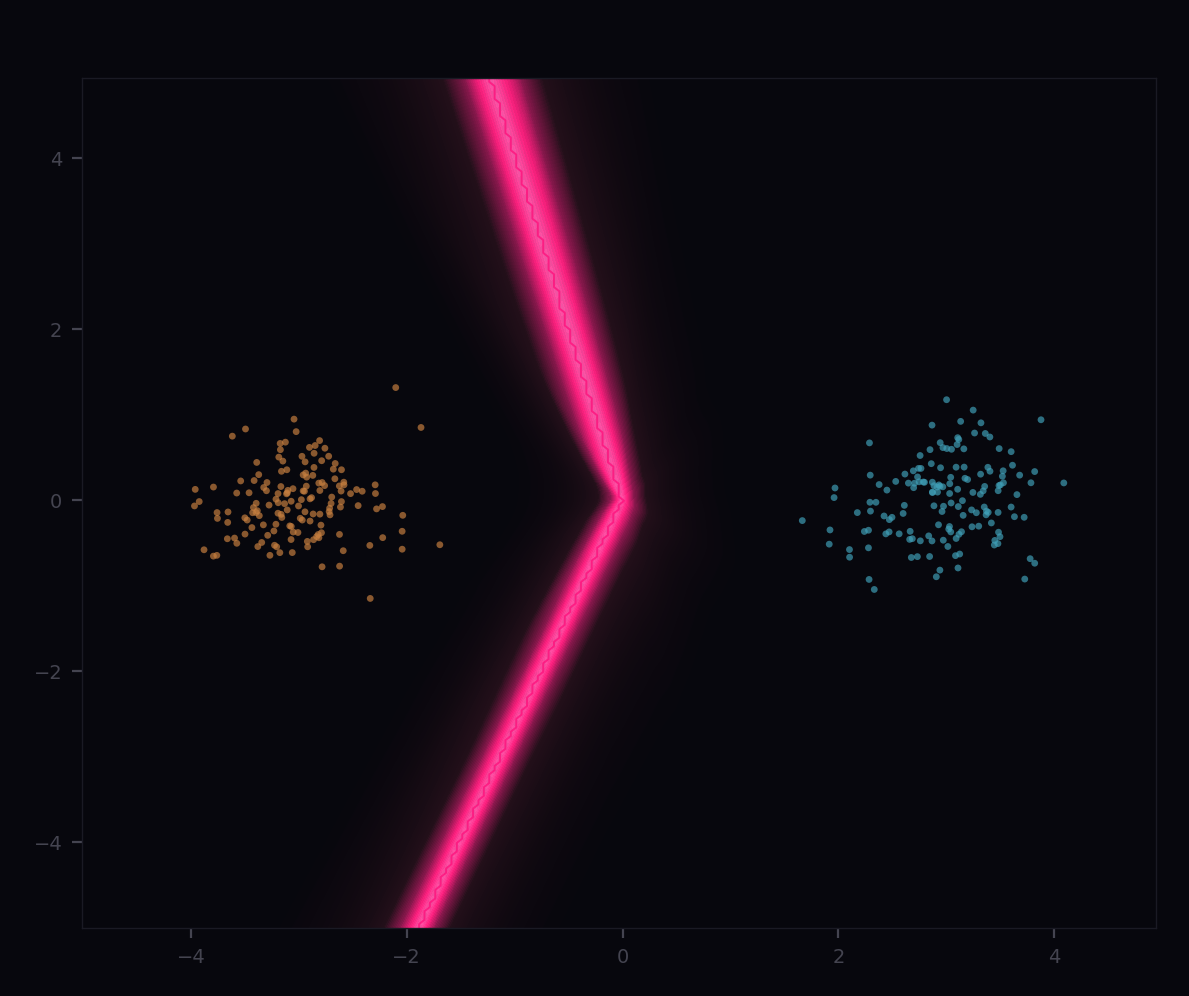
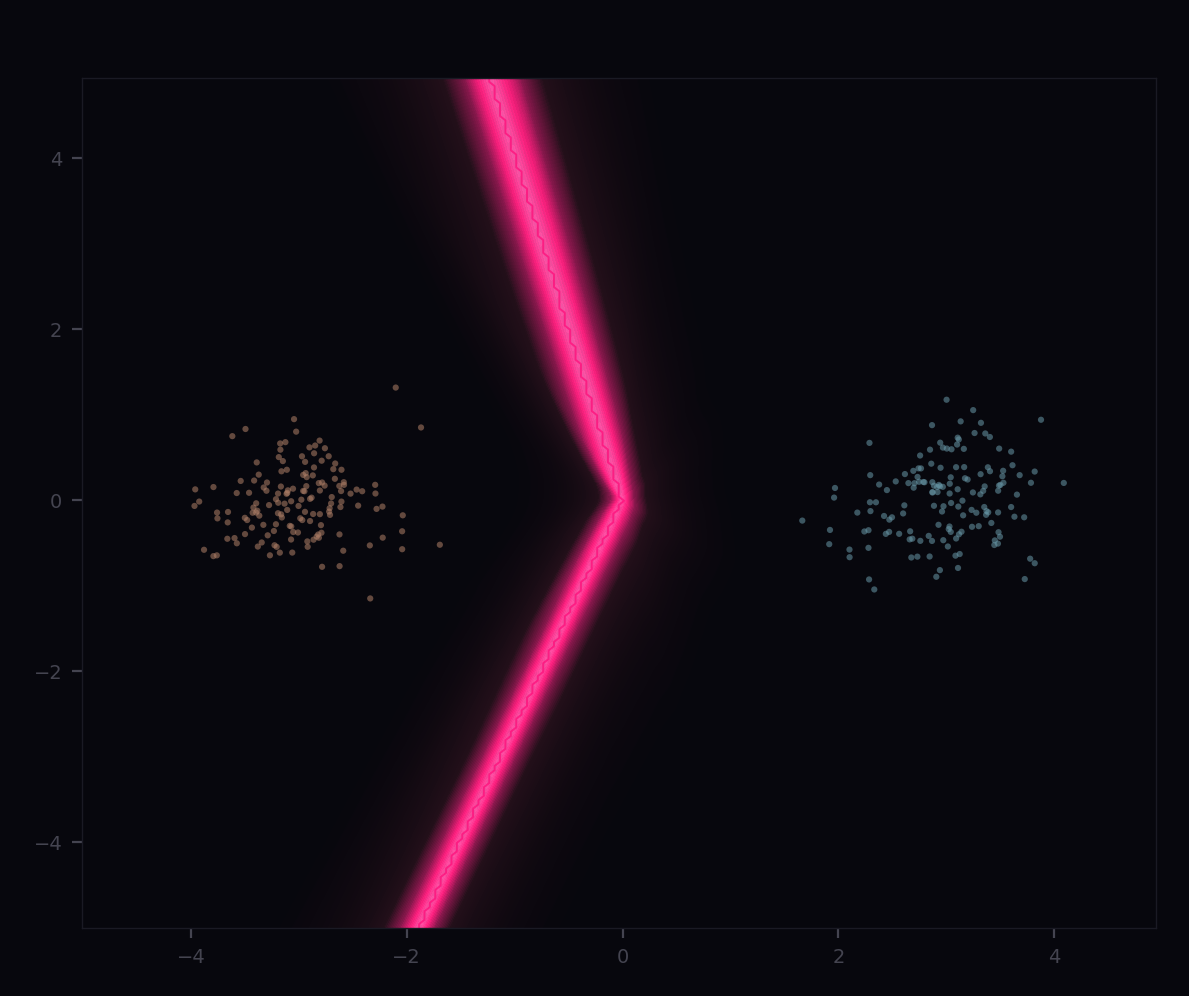
muted dots, smaller gallery, tighter wording, remove PINK_HOT

Changed region(s): [[0.6846, 0.4046, 0.8713, 0.5914], [0.1556, 0.4357, 0.3423, 0.5602]]

diff --git a/neural_geometry/bayesian.py b/neural_geometry/bayesian.py
@@ -172,10 +172,9 @@ FG         = "#c0c0d0"
 
 PINK_GLOW  = "#ff4fa3"
 PINK_NEON  = "#ff0f7b"
-PINK_HOT   = "#ff7cc4"
 
-CLASS0     = "#c88040"
-CLASS1     = "#40a0b8"
+CLASS0     = "#b08068"
+CLASS1     = "#6898a8"
 
 _CONF_CMAP = LinearSegmentedColormap.from_list("conf", [
     (0.00, "#ff5eb0"),
@@ -221,7 +220,7 @@ def plot_confidence_maps(fields, X, y):
         cf = ax.contourf(xx, yy, conf, levels=50, cmap=_CONF_CMAP,
                          vmin=0.5, vmax=1.0, alpha=0.95)
         _neon_boundary(ax, xx, yy, pred)
-        _scatter_data(ax, X, y, s=6, alpha=0.68)
+        _scatter_data(ax, X, y, s=5, alpha=0.55)
         cb = plt.colorbar(cf, ax=ax, fraction=0.032, pad=0.03)
         cb.ax.tick_params(colors="#333340", labelsize=6)
         cb.outline.set_edgecolor("#101018")
@@ -292,7 +291,7 @@ def plot_prior_sweep(model, X, y, prior_stds=(0.3, 1.0, 3.0, 10.0)):
         cf = ax.contourf(xx, yy, conf, levels=40, cmap=_CONF_CMAP,
                          vmin=0.5, vmax=1.0, alpha=0.95)
         _neon_boundary(ax, xx, yy, pred)
-        _scatter_data(ax, X, y, s=8)
+        _scatter_data(ax, X, y, s=5, alpha=0.55)
         plt.colorbar(cf, ax=ax, fraction=0.032, pad=0.03).ax.tick_params(
             colors="#333340", labelsize=5)
         _clean_ax(ax, f"\u03c3_prior = {s}")

diff --git a/README.md b/README.md
@@ -86,14 +86,14 @@ Along a fixed ray, the logit difference changes piecewise linearly, with kinks w
 
 <kbd>bayesian</kbd> &nbsp; [neural_geometry/bayesian.py](neural_geometry/bayesian.py)
 
-Binary ReLU classifier with a last-layer Laplace approximation, inspired by [Kristiadi et al. 2020](https://arxiv.org/abs/2002.10118). I wanted to understand what changes when only the last layer is treated probabilistically. The point-estimate model stays overconfident far from the training data, while the last-layer Laplace approximation pulls predictions back toward 0.5 in sparse regions.
+Binary ReLU classifier with a last-layer Laplace approximation, inspired by [Kristiadi et al. 2020](https://arxiv.org/abs/2002.10118). I wanted to understand what changes when only the last layer is treated probabilistically. The point-estimate model stays overconfident far from the training data, while the last-layer Laplace approximation pulls confidence back toward 0.5 in sparse regions.
 
 <p align="center"><em>MAP vs last-layer Laplace confidence</em></p>
 
 <table>
   <tr>
-    <td align="center" width="35%"><img src="assets/bayes_map.png" width="100%"></td>
-    <td align="center" width="35%"><img src="assets/bayes_llla.png" width="100%"></td>
+    <td align="center" width="24%"><img src="assets/bayes_map.png" width="100%"></td>
+    <td align="center" width="24%"><img src="assets/bayes_llla.png" width="100%"></td>
   </tr>
   <tr>
     <td align="center">MAP</td>
@@ -105,8 +105,8 @@ Binary ReLU classifier with a last-layer Laplace approximation, inspired by [Kri
 
 <table>
   <tr>
-    <td align="center" width="35%"><img src="assets/bayes_probe_map.png" width="100%"></td>
-    <td align="center" width="35%"><img src="assets/bayes_probe_llla.png" width="100%"></td>
+    <td align="center" width="24%"><img src="assets/bayes_probe_map.png" width="100%"></td>
+    <td align="center" width="24%"><img src="assets/bayes_probe_llla.png" width="100%"></td>
   </tr>
   <tr>
     <td align="center">MAP</td>
@@ -114,7 +114,7 @@ Binary ReLU classifier with a last-layer Laplace approximation, inspired by [Kri
   </tr>
 </table>
 
-MAP quickly returns to near-1 confidence away from the data. The last-layer Laplace approximation relaxes toward 0.5 and shows wider predictive spread as you move into regions with little or no training data.
+MAP quickly returns to near-1 confidence away from the data. The last-layer Laplace approximation relaxes toward 0.5 and shows wider predictive spread in regions with little or no training data.
 
 <kbd>relu-gl</kbd> &nbsp; [neural_geometry/gl1_geometry.py](neural_geometry/gl1_geometry.py)
 
